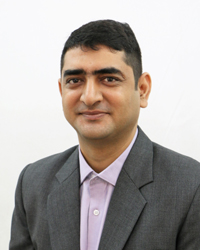
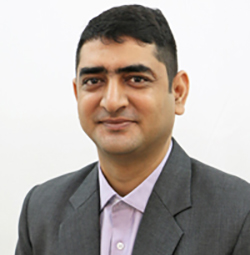
fixed styling

diff --git a/ganga-web2/src/Home.js b/ganga-web2/src/Home.js
@@ -165,7 +165,7 @@ class Home extends Component {
                 </h2>
                 </Bounce>
                 <h3 className="section-subheading text-muted">
-                  pujarig.com facilitates online puja and delivers needed
+                  PujariG.com facilitates online puja and delivers needed
                   supplies.
                 </h3>
               </div>
@@ -225,7 +225,8 @@ class Home extends Component {
                   alt="Vimal Tripathi"
                 />
                
-                <h4 className="service-heading effect1">P. Vimal Tripathi Ji, Lucknow</h4>
+                <h5 className="service-heading effect1">P. Vimal Tripathi Ji</h5>
+                <h6>Lucknow</h6>
               </div>
               <div className="col-md-4 ">
                 <img
@@ -233,13 +234,13 @@ class Home extends Component {
                   src={window.location.origin+"/img/UmakantSharma.jpeg"}
                   alt="Umakant Sharma"
                 />
-                <h4 className="service-heading effect1">P. Umakant Sharma Ji, Bhopal</h4>
+                <h5 className="service-heading effect1">P. Umakant Sharma Ji</h5> <h6>Bhopal</h6>
               </div>
               <div className="col-md-4  ">
               
                 <img className="img-fluid" src={window.location.origin+"/img/DwarikaPrasadGautam.jpeg"} alt="P. Gautam" />
                 
-                <h4 className="service-heading effect1">P. Dwarika Prasad Gautam Ji, Jhansi</h4>
+                <h5 className="service-heading effect1">P. Dwarika Prasad Gautam Ji</h5><h6> Jhansi</h6>
               </div>
             </div>             
           </div>
@@ -380,10 +381,10 @@ class Home extends Component {
 
           <div class="col-xl-3 col-lg-4 col-md-6 aos-init aos-animate" data-aos="fade-up">
             <div class="member">
-              <div class="pic"><img src={window.location.origin+"/img/ManishSingh.jpeg"} class="img-fluid" alt=""/></div>
+              <div class="pic"><img src={window.location.origin+"/img/ManishSingh.jpg"} class="img-fluid" alt=""/></div>
               <div class="member-info">
                 <h5>Manish Pratap Singh</h5>
-                <span><p>Technology & Operations</p>Founder pujarig.com Berlin & Lucknow</span>
+                <span><p class="member_role">Technology & Operations</p>Founder PujariG.com, Berlin & Lucknow</span>
                 
               </div>
             </div>
@@ -394,7 +395,7 @@ class Home extends Component {
               <div class="pic"><img src={window.location.origin+"/img/vineet.jpg"} class="img-fluid" alt=""/></div>
               <div class="member-info">
                 <h5>Vineet Dwivedi </h5>
-                <span><p>Advisor</p>CEO flipclass.com, hiresure.ai  Bangaluru</span>
+                <span><p class="member_role">Advisor</p>CEO Flipclass.com, Hiresure.ai  Bangaluru</span>
                 
               </div>
             </div>
@@ -405,7 +406,7 @@ class Home extends Component {
               <div class="pic"><img src={window.location.origin+"/img/mp.jpg"} class="img-fluid" alt=""/></div>
               <div class="member-info">
                 <h5>Mahendra Pratap</h5>
-                <span><p>UX Incubator</p> CEO Shiksha Infotech Incubation Centre Bangaluru</span>
+                <span><p class="member_role">UX Incubator</p> CEO Shiksha Infotech Incubation Centre, Bangaluru</span>
                 
               </div>
             </div>
@@ -416,7 +417,7 @@ class Home extends Component {
               <div class="pic"><img src={window.location.origin+"/img/sankum.jpg"} class="img-fluid" alt=""/></div>
               <div class="member-info">
                 <h5>Sanjeev Mishra</h5>
-                <span><p>Digital Marketing Strategy</p>Director Navyug Infosolutions, Noida</span>
+                <span><p class="member_role">Digital Marketing Strategy</p>Director Navyug Infosolutions, Noida</span>
                 
               </div>
             </div>
@@ -515,19 +516,18 @@ class Home extends Component {
         <section className="page-section" id="contact">
           <div className="container">
             <div className="row">
-              <div className="col-lg-12 text-center">
-              <div>
-              <Bounce>
-              <h2 className="section-subheading text-warning ">
+            <div className="col-lg-12 text-center">
+             
+                <h3 className="section-heading text-uppercase">
                 Want to know more about pujarig.com and how it works?
-              </h2>
-              <h2 className="section-subheading text-warning ">
+
+                  <hr className="fpc"></hr>
+                </h3>
+              <div class="background_strip">
+                <h3 className="section-subheading ">
                 Just fill in the form below!
-              </h2>
-                {/* <h2 className="section-heading text-uppercase">Contact Us</h2>*/}
-                <hr className="cnctus"></hr> 
-                </Bounce>
-               
+
+                </h3>
                 </div>
               </div>
             </div>

diff --git a/ganga-web2/src/App.js b/ganga-web2/src/App.js
@@ -33,7 +33,7 @@ class App extends React.Component {
         <Navbar collapseOnSelect expand="lg" bg="dark" variant="dark" fixed="top" id="mainNav">
         <div className="container" >    
         <Link to="/" className="navbar-brand js-scroll-trigger ">
-              <img className="logo" src={window.location.origin + "/img/logo_v4.png"} alt="pujarig.com" />
+              <img className="logo" src={window.location.origin + "/img/logo.png"} alt="pujarig.com" />
             </Link>
           <Navbar.Toggle aria-controls="responsive-navbar-nav" />
           <Navbar.Collapse id="responsive-navbar-nav">

diff --git a/ganga-web2/src/App.css b/ganga-web2/src/App.css
@@ -681,3 +681,26 @@ color: #fff;
 .member-info span {
   font-size: 14px;
 }
+.panditG h5 {
+  font-style: italic !important;
+  font-family: "Gill Sans", sans-serif;
+  font-weight: 800;
+}
+.team .member .pic img {
+  border-radius: 10px !important;
+}
+.member_role {
+  font-style: italic !important;
+  
+}
+.background_strip {
+  background-color: #fff;
+  opacity: .8;
+  border-radius: 15px;
+ 
+}
+.background_strip h3 {
+  padding-bottom: 10px;
+  padding-top: 10px;
+  color: #000000 !important;
+}
